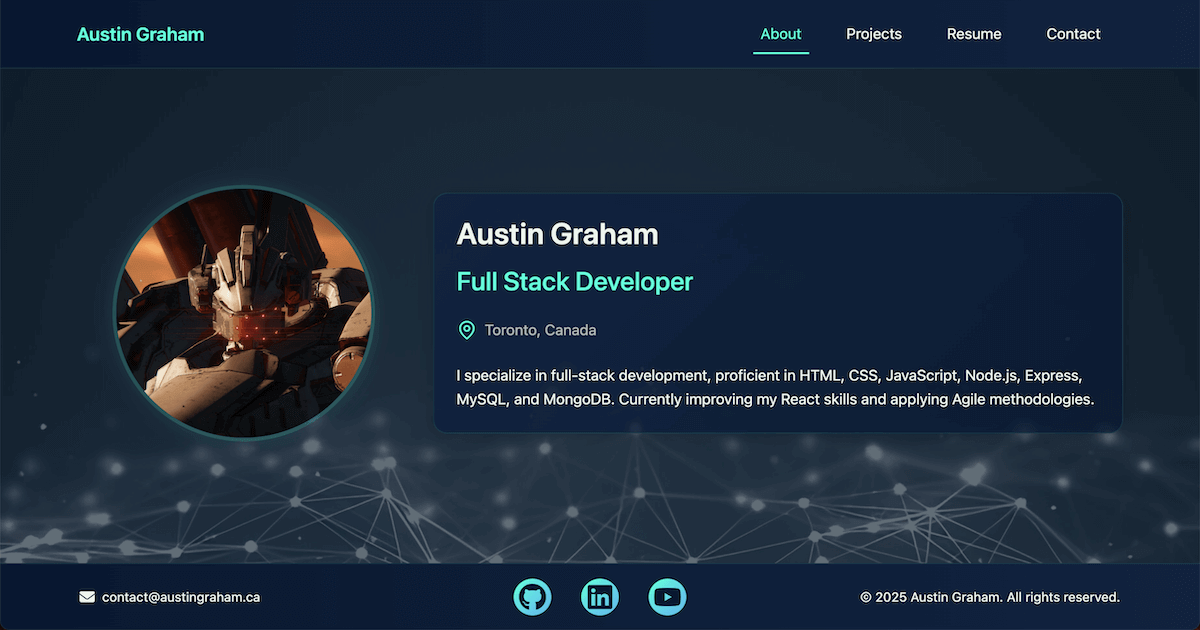
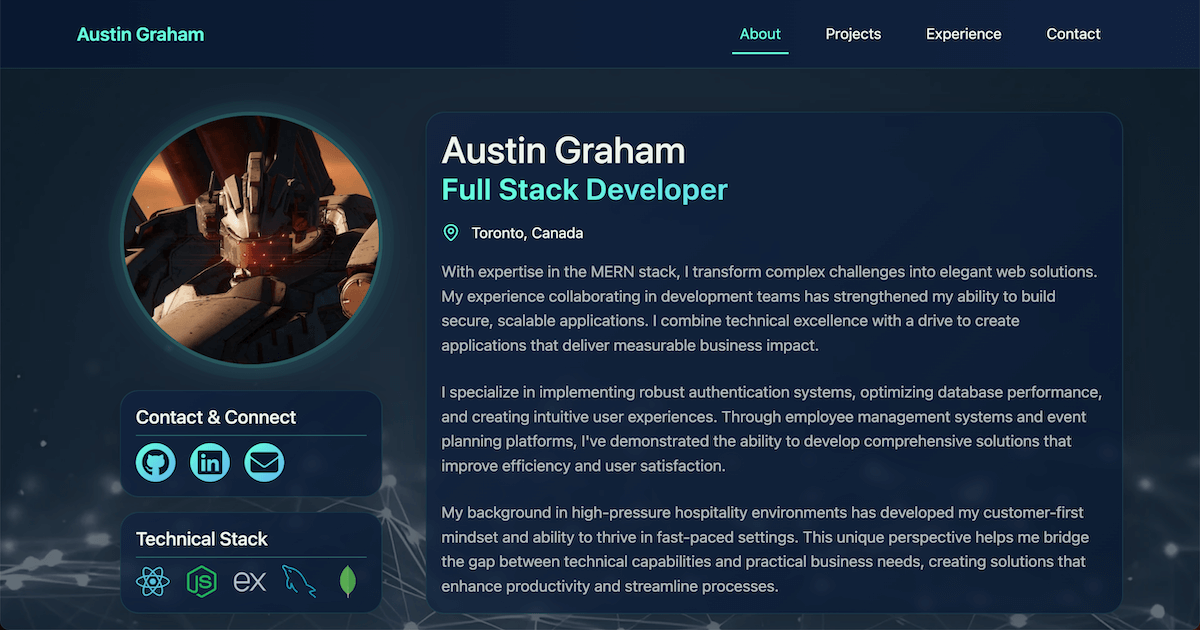
added tablet specific styles, updated about page screenshot

diff --git a/src/styles/About.css b/src/styles/About.css
@@ -118,6 +118,11 @@
   margin-bottom: 2.5rem;
 }
 
+.expertise-text {
+  color: var(--color-text-primary);
+  font-size: 1.05rem;
+}
+
 .expertise-icon {
   width: 70px;
   height: 70px;
@@ -142,6 +147,10 @@
     padding: 1rem;
   }
 
+  .card-text, .expertise-text {
+    font-size: 1rem;
+  }
+
   .social-links-about {
     gap: 1rem;
   }
@@ -154,6 +163,43 @@
   .expertise-icon {
     width: 60px;
     height: 60px;
+  }
+}
+
+/* Tablet-specific styles */
+@media (min-width: 768px) and (max-width: 991.98px) {
+  .profile-wrapper {
+    display: flex;
+    flex-direction: column;
+    align-items: center;
+  }
+
+  .text-center {
+    width: 100%;
+    display: flex;
+    gap: 20px;
+    justify-content: center;
+  }
+
+  .profile-social,
+  .technical-stack-section {
+    width: calc(50% - 10px);
+    margin: 0;
+  }
+
+  .technical-stack-section.d-none.d-lg-block {
+    display: block !important;
+    margin-top: 0 !important;
+    margin-bottom: 1rem !important;
+  }
+
+  .bio-mobile-sections {
+    display: none !important;
+  }
+
+  .stack-icon {
+    width: 42px;
+    height: 42px;
   }
 }
 

diff --git a/src/components/About.jsx b/src/components/About.jsx
@@ -371,7 +371,7 @@ const About = () => {
           <header className="">
             <h2 id="expertise-heading" className="gradient-text expertise-heading my-0">Technical Specializations</h2>
             <hr className="skill-divider" aria-hidden="true" />
-            <p className="mx-auto">
+            <p className="mx-auto expertise-text">
               Building scalable, secure, and user-centric web solutions using modern technologies and industry-standard development practices.
             </p>
           </header>
